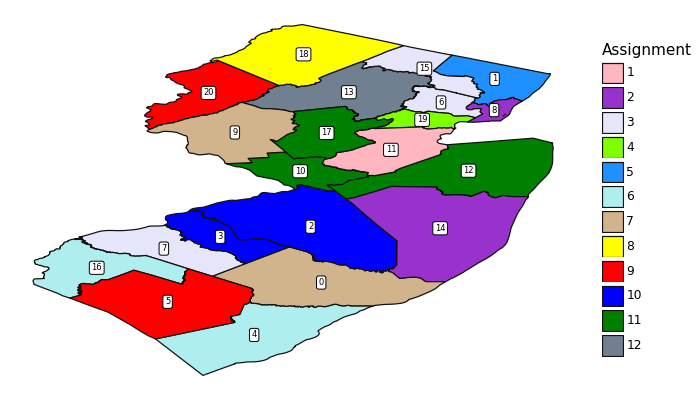
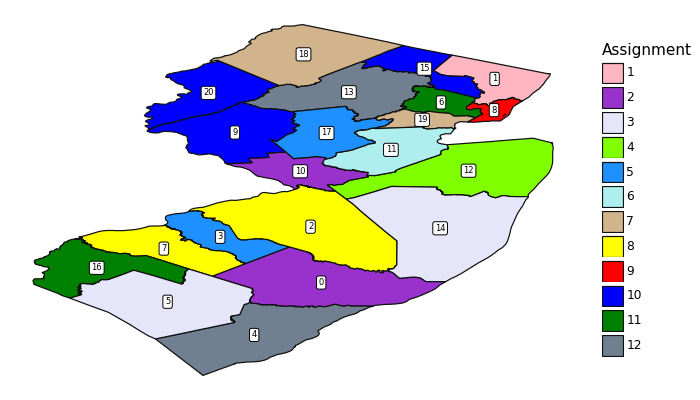
final push unless a solution is found from one of our running programs

diff --git a/aternate_attempt.py b/aternate_attempt.py
@@ -16,6 +16,7 @@ from plotnine import (
     theme_minimal,
     theme,
 )
+from icecream import ic
 
 # Assign arbitrary county IDs
 county_id = np.arange(0, 21)
@@ -698,10 +699,12 @@ x_0 = pulp.LpVariable.dicts(
     ((a, b) for a in range(num_counties) for b in range(num_counties)),
     cat="Binary",
 )
+ic(x)
+# ic(x_0)
 
 # The Decision Variable is the deviation from mean population
 pop_deviation = pulp.LpVariable("d", lowBound=0)
-
+print(pop_deviation)
 model += pulp.lpSum(
     pop_deviation
 )  # Objective function: minimize deviation from population mean of all districts (total population / 12)
@@ -721,20 +724,20 @@ for a in range(num_counties):
         if (
             adjacency_matrix[str(a)][str(b)] == 1
         ):  # Check if counties a and b are adjacent
+            print((str(a), str(b)))
             for j in range(num_districts):
                 model += (
-                    x_0[(a, b)] >= x[(a, j)] - x[(b, j)]
+                    x[(a, b)] >= x[(a, j)] - x[(b, j)]
                 )  # Constraint: x_0ab >= xa_j - xb_j
                 model += (
                     x_0[(a, b)] >= x[(b, j)] - x[(a, j)]
                 )  # Constraint: x_0ab >= xb_j - xa_j
             model += x_0[(a, b)] <= pulp.lpSum(
-                x[(a, j)] for j in range(num_districts)
+                x[(a, k)] for k in range(num_districts)
             )  # Constraint: x_0ab <= sum(xa_j)
             model += x_0[(a, b)] <= pulp.lpSum(
-                x[(b, j)] for j in range(num_districts)
+                x[(b, k)] for k in range(num_districts)
             )  # Constraint: x_0ab <= sum(xb_j)
-
 min_dist = 65000
 max_dist = 6828819
 # District size constraints, in order to keep the size of districts within a specific range from the mean population

diff --git a/secondary.py b/secondary.py
@@ -266,7 +266,7 @@ for i in range(n_counties):
             "Allocation assignment " + str(i) + " " + str(j),
         )
 
-
+"""
 for j in range(n_districts):
     # Atlantic County borders Burlington[2], Camden[3], Cape May[4], Cumberland[5], Gloucester[7], and Ocean[14]
     model += (
@@ -386,7 +386,7 @@ for j in range(n_districts):
     model += (
         assignment[20][j] <= assignment[9][j] + assignment[13][j] + assignment[18][j]
     )
-
+"""
 
 # District size constraints, in order to keep the size of districts by population similar
 for j in range(n_districts):
@@ -413,7 +413,7 @@ for i in range(n_counties):  # added
 #         "Up-to-two Assignments " + str(i),
 #     )
 
-model.solve(GLPK_CMD())
+model.solve()
 print("The model status is: ", LpStatus[model.status])
 print("The objective value is: ", value(objective_function))
 
